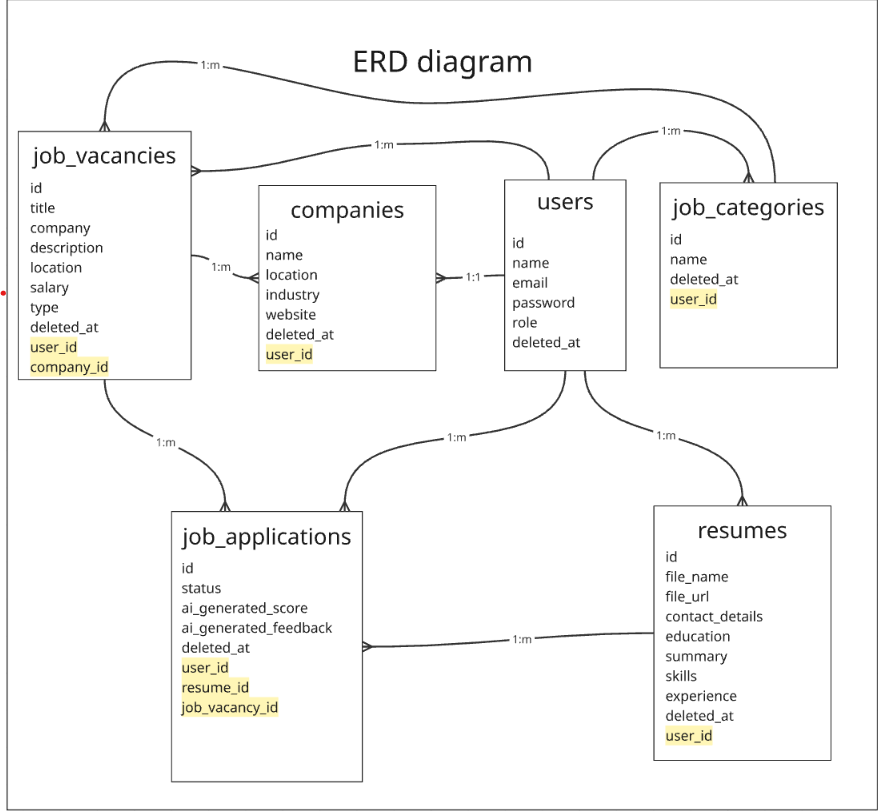
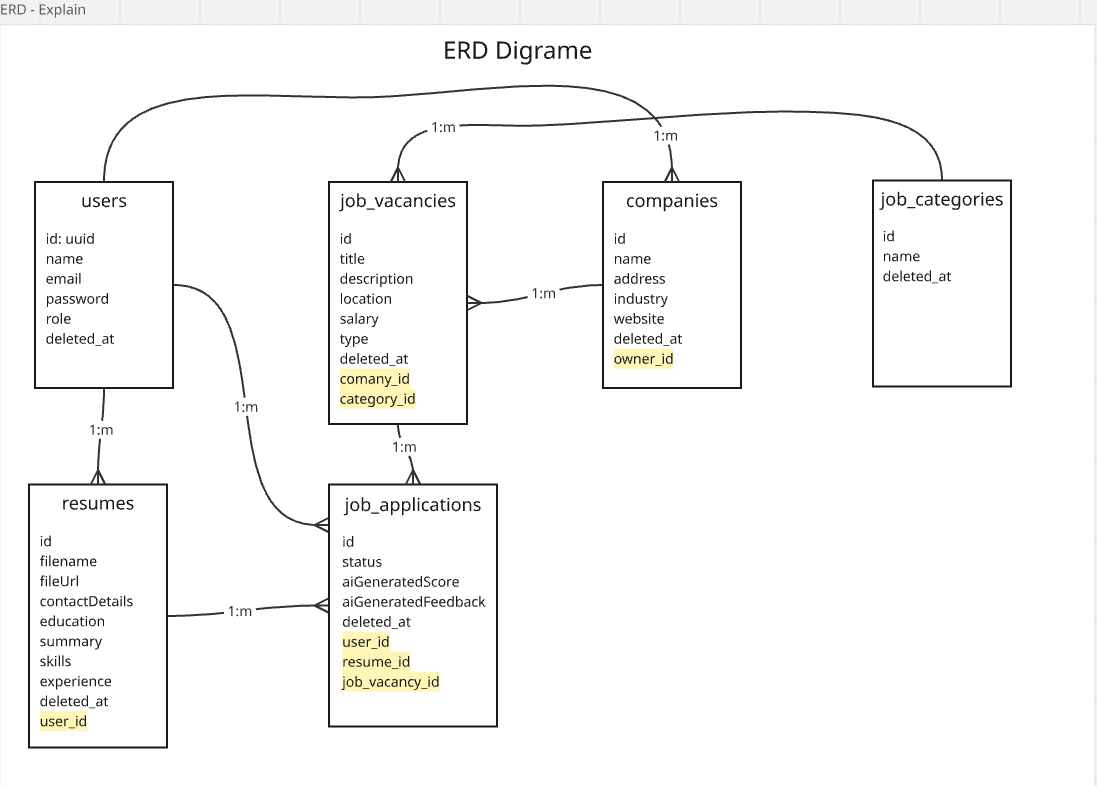
Update ERD diagram and create initial model files

diff --git a/job-backoffice/app/Models/JobApplication.php b/job-backoffice/app/Models/JobApplication.php
@@ -1,0 +1,67 @@
+<?php
+
+namespace App\Models;
+
+use App\Models\JobVacancy;
+use App\Models\Resume;
+use App\Models\User;
+use Illuminate\Database\Eloquent\Concerns\HasUuids;
+use Illuminate\Database\Eloquent\Factories\HasFactory;
+use Illuminate\Database\Eloquent\Model;
+use Illuminate\Database\Eloquent\SoftDeletes;
+
+class JobApplication extends Model
+{
+    use HasFactory, HasUuids, SoftDeletes;
+
+    protected $table = 'job_applications';
+
+    protected $keyType = "string";
+
+    public $incrementing = false;
+
+    /**
+     * The attributes that are mass assignable.
+     *
+     * @var list<string>
+     */
+    protected $fillable = [
+        'status',
+        'aiGeneratedScore',
+        'aiGeneratedFeedback',
+        'user_id',
+        'resume_id',
+        'job_vacancy_id'
+    ];
+
+    protected $dates = [
+        'deleted_at',
+    ];
+
+    /**
+     * Get the attributes that should be cast.
+     *
+     * @return array<string, string>
+     */
+    protected function casts(): array
+    {
+        return [
+            'deleted_at' => 'datetime',
+        ];
+    }
+    // this function to make relationship one to many between user and job_applications
+    public function user() {
+        return $this->belongsTo(User::class, 'user_id', 'id');
+    }
+
+    // this function to make relationship one to many between resumes and job_applications
+    public function resume() {
+        return $this->belongsTo(Resume::class, 'resume_id', 'id');
+    }
+
+    // this function to make relationship one to many between job_vacancies and job_applications
+    public function jobvacancy() {
+        return $this->belongsTo(JobVacancy::class, 'job_vacancy_id', 'id');
+    }
+
+}

diff --git a/job-backoffice/app/Models/JobVacancy.php b/job-backoffice/app/Models/JobVacancy.php
@@ -1,0 +1,66 @@
+<?php
+
+namespace App\Models;
+
+use Illuminate\Database\Eloquent\Model;
+use Illuminate\Database\Eloquent\Factories\HasFactory;
+use Illuminate\Database\Eloquent\Concerns\HasUuids;
+use Illuminate\Database\Eloquent\SoftDeletes;
+use App\Models\Company;
+use App\Models\JobCategory;
+
+class JobVacancy extends Model
+{
+    use HasFactory, HasUuids, SoftDeletes;
+
+    protected $table = 'job_vacancies';
+
+    protected $keyType = "string";
+
+    public $incrementing = false;
+
+    /**
+     * The attributes that are mass assignable.
+     *
+     * @var list<string>
+     */
+    protected $fillable = [
+        'title',
+        'description',
+        'location',
+        'salary',
+        'type',
+        'company_id',
+        'category_id'
+    ];
+
+    protected $dates = [
+        'deleted_at',
+    ];
+
+    /**
+     * Get the attributes that should be cast.
+     *
+     * @return array<string, string>
+     */
+    protected function casts(): array
+    {
+        return [
+            'deleted_at' => 'datetime',
+        ];
+    }
+
+    // this function to make relationship one to many between companies and job_vacancies
+    public function company() {
+        return $this->belongsTo(Company::class, 'company_id', 'id');
+    }
+
+    // this function to make relationship one to many between job_categories and job_vacancies
+    public function jobcategory() {
+        return $this->belongsTo(JobCategory::class, 'category_id', 'id');
+    }
+
+    public function Jobapplication() {
+        return $this->hasMany(JobApplication::class, 'job_vacancy_id', 'id');
+    }
+}

diff --git a/job-backoffice/app/Models/Resume.php b/job-backoffice/app/Models/Resume.php
@@ -1,0 +1,64 @@
+<?php
+
+namespace App\Models;
+
+use Illuminate\Database\Eloquent\Model;
+use Illuminate\Database\Eloquent\Factories\HasFactory;
+use Illuminate\Database\Eloquent\Concerns\HasUuids;
+use Illuminate\Database\Eloquent\SoftDeletes;
+use App\Models\User;
+use App\Models\JobApplication;
+
+class Resume extends Model
+{
+    /** @use HasFactory<\Database\Factories\UserFactory> */
+    use HasFactory, HasUuids, SoftDeletes;
+
+    protected $table = 'resumes';
+
+    protected $keyType = "string";
+
+    public $incrementing = false;
+
+    /**
+     * The attributes that are mass assignable.
+     *
+     * @var list<string>
+     */
+    protected $fillable = [
+        'filename',
+        'fileUrl',
+        'contactDetails',
+        'education',
+        'summary',
+        'skills',
+        'experience',
+        'user_id'
+    ];
+
+    protected $dates = [
+        'deleted_at',
+    ];
+
+
+    /**
+     * Get the attributes that should be cast.
+     *
+     * @return array<string, string>
+     */
+    protected function casts(): array
+    {
+        return [
+            'deleted_at' => 'datetime',
+        ];
+    }
+
+    // this function to make relationship one to many between user and resumes
+    public function user() {
+        return $this->belongsTo(User::class, 'user_id', 'id');
+    }
+
+    public function jobapplication() {
+        return $this->hasMany(JobApplication::class, 'resume_id', 'id');
+    }
+}

diff --git a/job-backoffice/app/Models/User.php b/job-backoffice/app/Models/User.php
@@ -5,13 +5,18 @@ namespace App\Models;
 // use Illuminate\Contracts\Auth\MustVerifyEmail;
 use Illuminate\Database\Eloquent\Factories\HasFactory;
 use Illuminate\Foundation\Auth\User as Authenticatable;
+use Illuminate\Database\Eloquent\Concerns\HasUuids;
+use Illuminate\Database\Eloquent\SoftDeletes;
 use Illuminate\Notifications\Notifiable;
 
 class User extends Authenticatable
 {
     /** @use HasFactory<\Database\Factories\UserFactory> */
-    use HasFactory, Notifiable;
+    use HasFactory, Notifiable, HasUuids, SoftDeletes;
 
+    protected $keyType = "string";
+
+    public $incrementing = false;
     /**
      * The attributes that are mass assignable.
      *
@@ -21,6 +26,11 @@ class User extends Authenticatable
         'name',
         'email',
         'password',
+        'role'
+    ];
+
+    protected $dates = [
+        'deleted_at',
     ];
 
     /**
@@ -43,6 +53,18 @@ class User extends Authenticatable
         return [
             'email_verified_at' => 'datetime',
             'password' => 'hashed',
+            'deleted_at' => 'datetime',
         ];
+    }
+    public function resume() {
+        return $this->hasMany(Resume::class, 'user_id', 'id');
+    }
+
+    public function jobapplication() {
+        return $this->hasMany(JobApplication::class, 'user_id', 'id');
+    }
+
+    public function company() {
+        return $this->hasOne(Company::class, 'user_id', 'id');
     }
 }

diff --git a/job-backoffice/app/Models/Company.php b/job-backoffice/app/Models/Company.php
@@ -1,0 +1,58 @@
+<?php
+
+namespace App\Models;
+
+use Illuminate\Database\Eloquent\Model;
+use Illuminate\Database\Eloquent\Factories\HasFactory;
+use Illuminate\Database\Eloquent\Concerns\HasUuids;
+use Illuminate\Database\Eloquent\SoftDeletes;
+use App\Models\User;
+
+class Company extends Model
+{
+    use HasFactory, HasUuids, SoftDeletes;
+
+    protected $table = 'companies';
+
+    protected $keyType = "string";
+
+    public $incrementing = false;
+
+    /**
+     * The attributes that are mass assignable.
+     *
+     * @var list<string>
+     */
+    protected $fillable = [
+        'name',
+        'address',
+        'industry',
+        'website',
+        'owner_id'
+    ];
+
+    protected $dates = [
+        'deleted_at',
+    ];
+
+    /**
+     * Get the attributes that should be cast.
+     *
+     * @return array<string, string>
+     */
+    protected function casts(): array
+    {
+        return [
+            'deleted_at' => 'datetime',
+        ];
+    }
+
+    // this function to make relationship one to many between user( owner ) and company
+    public function user() {
+        return $this->belongsTo(User::class, 'owner_id', 'id');
+    }
+
+    public function Jobvacancy() {
+        return $this->hasMany(JobVacancy::class, 'company_id', 'id');
+    }
+}

diff --git a/job-backoffice/app/Models/JobCategory.php b/job-backoffice/app/Models/JobCategory.php
@@ -1,0 +1,48 @@
+<?php
+
+namespace App\Models;
+
+use Illuminate\Database\Eloquent\Model;
+use Illuminate\Database\Eloquent\Factories\HasFactory;
+use Illuminate\Database\Eloquent\Concerns\HasUuids;
+use Illuminate\Database\Eloquent\SoftDeletes;
+
+class JobCategory extends Model
+{
+    use HasFactory, HasUuids, SoftDeletes;
+
+    protected $table = 'job_categories';
+
+    protected $keyType = "string";
+
+    public $incrementing = false;
+
+    /**
+     * The attributes that are mass assignable.
+     *
+     * @var list<string>
+     */
+    protected $fillable = [
+        'name',
+    ];
+
+    protected $dates = [
+        'deleted_at',
+    ];
+
+    /**
+     * Get the attributes that should be cast.
+     *
+     * @return array<string, string>
+     */
+    protected function casts(): array
+    {
+        return [
+            'deleted_at' => 'datetime',
+        ];
+    }
+
+    public function Jobvacancy() {
+        return $this->hasMany(JobVacancy::class, 'company_id', 'id');
+    }
+}
